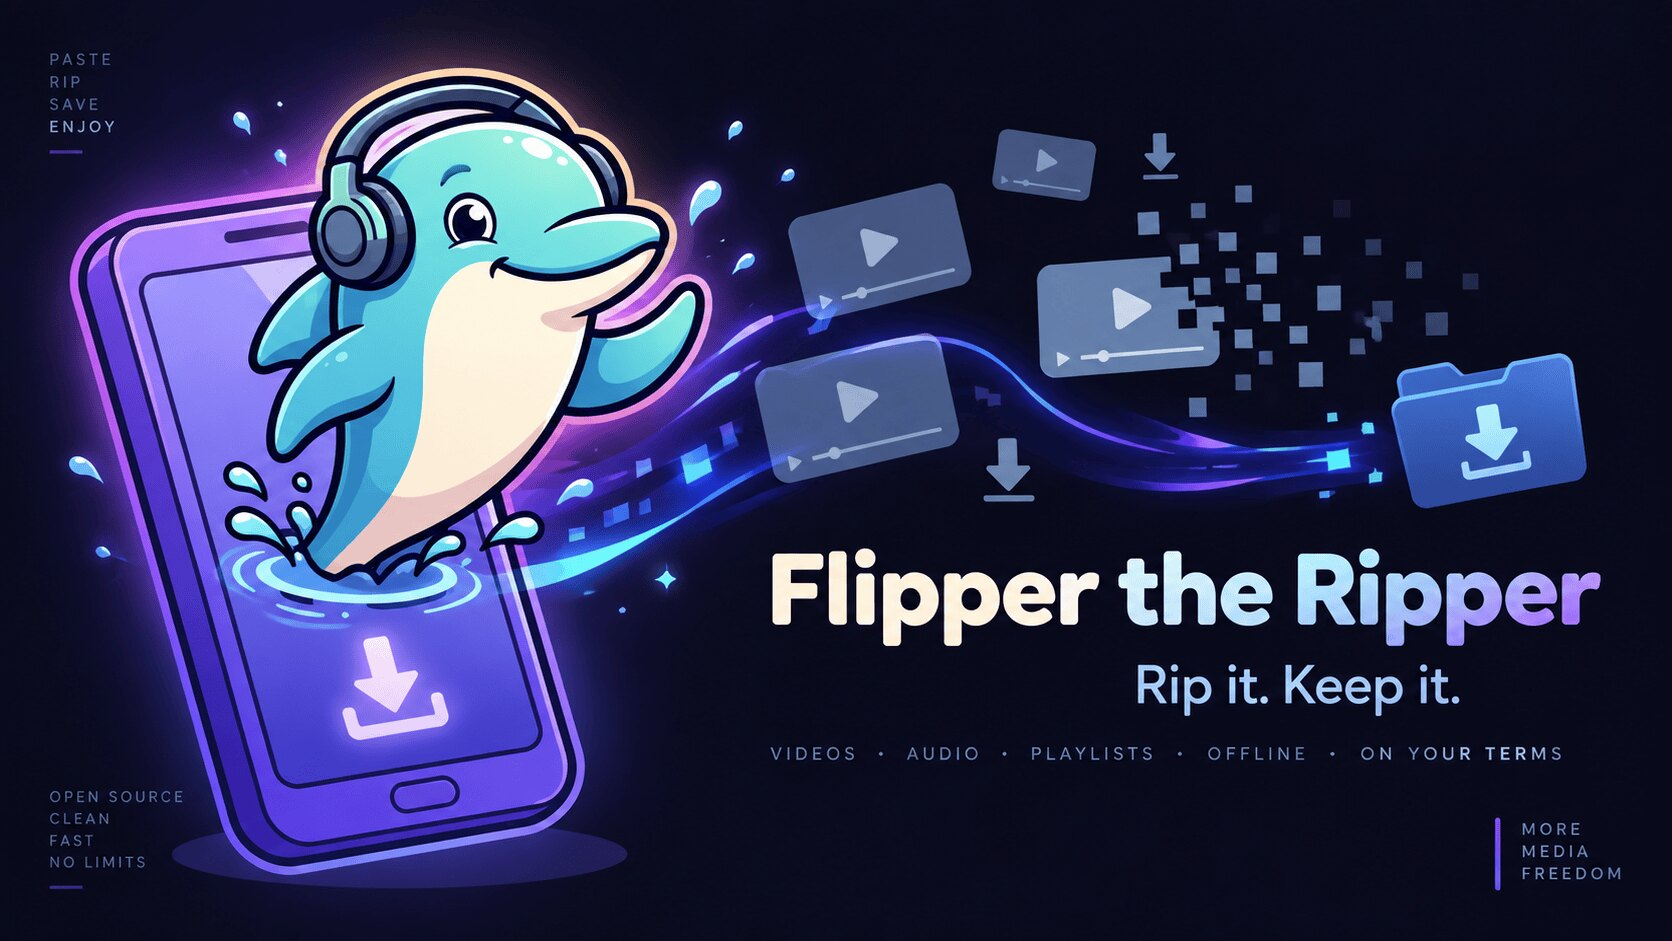
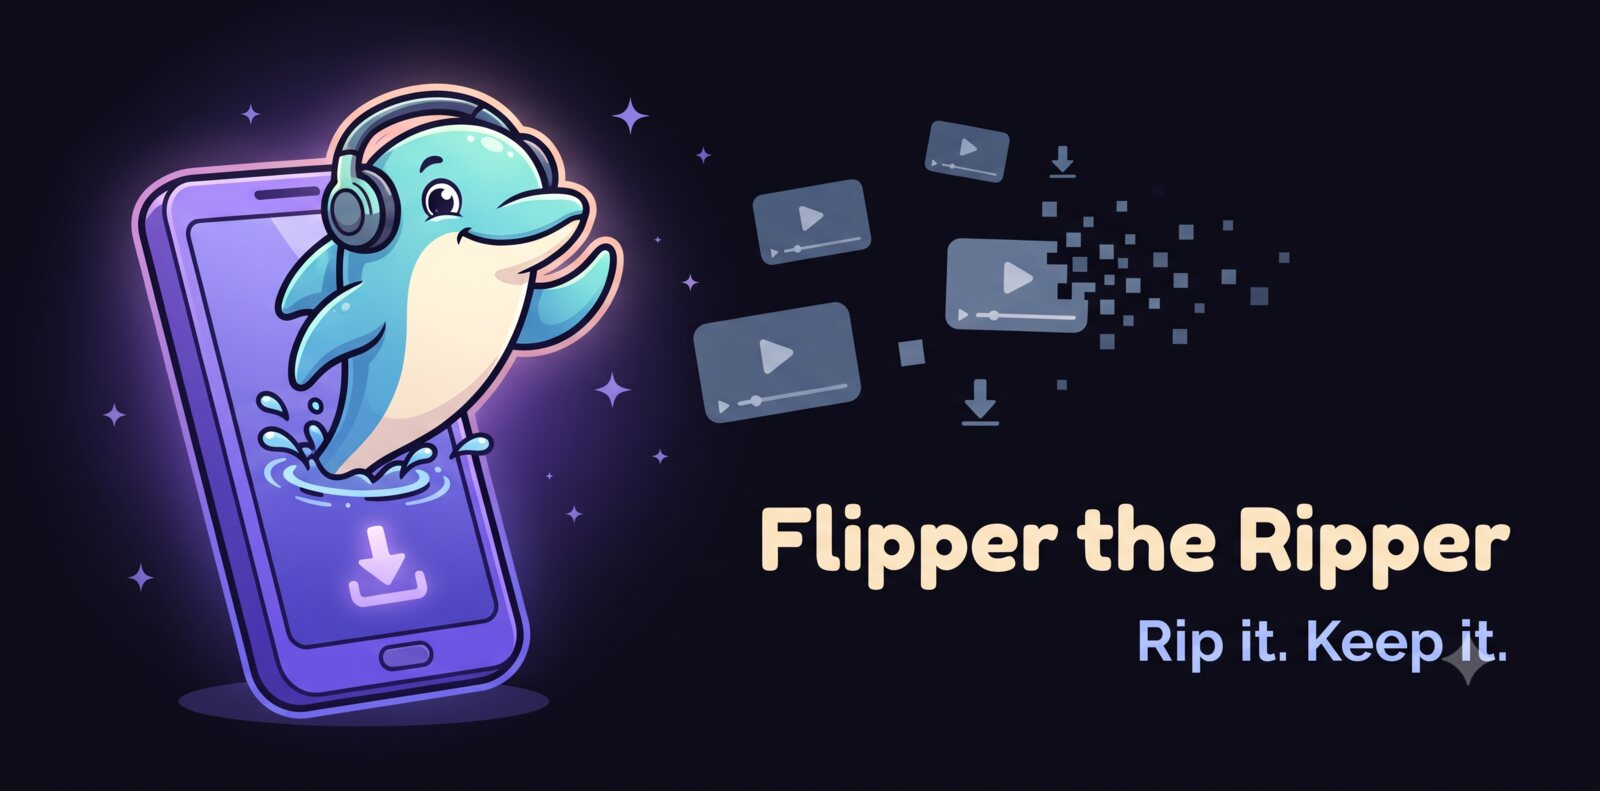
feat(website): new hero art as background, English meta tags, agent-friendly
- Hero: the high-resolution banner (2912 px, served as 1400/2400 px WebP)
  behind the text again, headline starting near the top.
- Meta: concise title and description, robots, Open Graph with locale
  alternates and image alt, Twitter card, JSON-LD MobileApplication with a
  feature list plus a HowTo for installing.
- Agents: the download button points at /download in the HTML itself (works
  without JavaScript, always the newest APK); /llms.txt summarises the app,
  its links, install and verification; <link rel="alternate"> announces
  llms.txt and latest.json. nginx serves text with charset=utf-8.

Claude-Session: https://claude.ai/code/session_01UcobzkTqVgULEXse87NsMY

diff --git a/website/index.html b/website/index.html
@@ -3,44 +3,151 @@
 <head>
   <meta charset="utf-8">
   <meta name="viewport" content="width=device-width, initial-scale=1, viewport-fit=cover">
-  <title>Flipper the Ripper — Android video downloader</title>
-  <meta name="description" content="Open-source Android app to save public videos from YouTube, Instagram, TikTok, Facebook, X and Dailymotion. Share a link, get the file. Free, no account, no tracking.">
+  <title>Flipper the Ripper — Free Android Video Downloader</title>
+  <meta name="description" content="Save public videos from YouTube, Instagram, TikTok, Facebook, X and Dailymotion to your Android gallery. Share a link, get the file. Free and open source.">
+  <meta name="robots" content="index, follow, max-image-preview:large, max-snippet:-1">
+  <meta name="author" content="Martin Pfeffer">
+  <meta name="application-name" content="Flipper the Ripper">
+  <meta name="apple-mobile-web-app-title" content="Flipper the Ripper">
   <meta name="theme-color" content="#141218">
   <meta name="color-scheme" content="dark">
+  <meta name="format-detection" content="telephone=no">
   <link rel="canonical" href="https://flipper-the-ripper.celox.io/">
-  <link rel="icon" href="assets/mark.svg?v=10" type="image/svg+xml">
-  <link rel="apple-touch-icon" href="assets/apple-touch-icon.png?v=10">
-  <link rel="preload" as="image" href="assets/hero.webp?v=10" type="image/webp">
+  <link rel="icon" href="assets/mark.svg?v=12" type="image/svg+xml">
+  <link rel="apple-touch-icon" href="assets/apple-touch-icon.png?v=12">
+  <link rel="preload" as="image" type="image/webp" imagesrcset="assets/hero-1400.webp?v=12 1400w, assets/hero-2400.webp?v=12 2400w" imagesizes="100vw">
+  <!-- For agents and tools: machine-readable facts about the app and its newest release. -->
+  <link rel="alternate" type="text/markdown" href="/llms.txt" title="Flipper the Ripper for LLMs and agents">
+  <link rel="alternate" type="application/json" href="/latest.json" title="Newest release (version, APK URL, size, SHA-256)">
 
   <meta property="og:type" content="website">
+  <meta property="og:site_name" content="Flipper the Ripper">
   <meta property="og:url" content="https://flipper-the-ripper.celox.io/">
   <meta property="og:title" content="Flipper the Ripper — Rip it. Keep it.">
-  <meta property="og:description" content="Open-source Android app to save public videos from YouTube, Instagram, TikTok, Facebook, X and Dailymotion.">
-  <meta property="og:image" content="https://flipper-the-ripper.celox.io/assets/og.jpg">
+  <meta property="og:description" content="Free, open-source Android app that saves public videos from YouTube, Instagram, TikTok, Facebook, X and Dailymotion to your gallery. Share a link, get the file.">
+  <meta property="og:locale" content="en_US">
+  <meta property="og:locale:alternate" content="de_DE">
+  <meta property="og:locale:alternate" content="es_ES">
+  <meta property="og:locale:alternate" content="it_IT">
+  <meta property="og:locale:alternate" content="fr_FR">
+  <meta property="og:image" content="https://flipper-the-ripper.celox.io/assets/og.jpg?v=12">
+  <meta property="og:image:secure_url" content="https://flipper-the-ripper.celox.io/assets/og.jpg?v=12">
+  <meta property="og:image:type" content="image/jpeg">
   <meta property="og:image:width" content="1200">
   <meta property="og:image:height" content="630">
+  <meta property="og:image:alt" content="A cartoon dolphin with headphones leaping out of a phone, videos flying into a download arrow — Flipper the Ripper, Rip it. Keep it.">
   <meta name="twitter:card" content="summary_large_image">
+  <meta name="twitter:title" content="Flipper the Ripper — Rip it. Keep it.">
+  <meta name="twitter:description" content="Free, open-source Android video downloader for YouTube, Instagram, TikTok, Facebook, X and Dailymotion. No account, no ads, no tracking.">
+  <meta name="twitter:image" content="https://flipper-the-ripper.celox.io/assets/og.jpg?v=12">
+  <meta name="twitter:image:alt" content="Flipper the Ripper — a cartoon dolphin leaping out of a phone, videos flying into a download arrow.">
 
   <script type="application/ld+json">
-  {"@context":"https://schema.org","@type":"SoftwareApplication","name":"Flipper the Ripper",
-   "operatingSystem":"Android 7.0+","applicationCategory":"MultimediaApplication",
-   "offers":{"@type":"Offer","price":"0","priceCurrency":"EUR"},
-   "license":"https://opensource.org/licenses/MIT",
-   "downloadUrl":"https://flipper-the-ripper.celox.io/download",
-   "codeRepository":"https://github.com/pepperonas/flipper-the-ripper",
-   "author":{"@type":"Person","name":"Martin Pfeffer","url":"https://celox.io"}}
+[
+ {
+  "@context": "https://schema.org",
+  "@type": "MobileApplication",
+  "@id": "https://flipper-the-ripper.celox.io/#app",
+  "name": "Flipper the Ripper",
+  "alternateName": [
+   "FTR",
+   "Flipper"
+  ],
+  "description": "Free, open-source Android app that saves publicly accessible videos from YouTube, Instagram, TikTok, Facebook, X and Dailymotion to the phone's gallery. Share a link to the app and the download starts. No account, no ads, no tracking.",
+  "url": "https://flipper-the-ripper.celox.io/",
+  "image": "https://flipper-the-ripper.celox.io/assets/og.jpg?v=12",
+  "screenshot": "https://flipper-the-ripper.celox.io/assets/screens.jpg?v=12",
+  "operatingSystem": "Android 7.0 or later (64-bit ARM)",
+  "applicationCategory": "MultimediaApplication",
+  "applicationSubCategory": "Video downloader",
+  "downloadUrl": "https://flipper-the-ripper.celox.io/download",
+  "installUrl": "https://flipper-the-ripper.celox.io/download",
+  "releaseNotes": "https://github.com/pepperonas/flipper-the-ripper/releases/latest",
+  "softwareHelp": {
+   "@type": "CreativeWork",
+   "url": "https://flipper-the-ripper.celox.io/#install"
+  },
+  "inLanguage": [
+   "en",
+   "de",
+   "es",
+   "it",
+   "fr"
+  ],
+  "isAccessibleForFree": true,
+  "offers": {
+   "@type": "Offer",
+   "price": "0",
+   "priceCurrency": "EUR",
+   "availability": "https://schema.org/InStock"
+  },
+  "license": "https://opensource.org/licenses/MIT",
+  "sameAs": [
+   "https://github.com/pepperonas/flipper-the-ripper"
+  ],
+  "featureList": [
+   "Download from YouTube, Instagram, TikTok, Facebook, X and Dailymotion",
+   "Share a link to the app and the download starts automatically",
+   "Quality picker: Best, 1080p, 720p, 480p or audio only",
+   "Download queue: one at a time, pause and resume, reorder by dragging",
+   "Swipe finished downloads away, with undo",
+   "Background downloads with a single progress notification",
+   "Saves to the Movies folder, named after the video title",
+   "Self-updating yt-dlp extractor",
+   "Available in English, German, Spanish, Italian and French",
+   "No account, no ads, no tracking"
+  ],
+  "author": {
+   "@type": "Person",
+   "name": "Martin Pfeffer",
+   "url": "https://celox.io"
+  },
+  "publisher": {
+   "@type": "Organization",
+   "name": "celox.io",
+   "url": "https://celox.io"
+  }
+ },
+ {
+  "@context": "https://schema.org",
+  "@type": "HowTo",
+  "name": "How to install Flipper the Ripper on Android",
+  "totalTime": "PT2M",
+  "step": [
+   {
+    "@type": "HowToStep",
+    "position": 1,
+    "name": "Download the APK",
+    "text": "Open https://flipper-the-ripper.celox.io/download on the phone. It always serves the newest signed APK (one file for all 64-bit ARM phones).",
+    "url": "https://flipper-the-ripper.celox.io/download"
+   },
+   {
+    "@type": "HowToStep",
+    "position": 2,
+    "name": "Allow the install",
+    "text": "Open the downloaded file. Android asks once whether the browser may install apps; allow it."
+   },
+   {
+    "@type": "HowToStep",
+    "position": 3,
+    "name": "Share a link",
+    "text": "In YouTube, Instagram, TikTok, Facebook, X or Dailymotion tap Share and pick Flipper the Ripper. Updates install over the existing app."
+   }
+  ]
+ }
+]
   </script>
 
-  <link rel="stylesheet" href="styles.css?v=10">
-  <script src="i18n.js?v=10" defer></script>
-  <script src="app.js?v=10" defer></script>
+  <link rel="stylesheet" href="styles.css?v=12">
+  <script src="i18n.js?v=12" defer></script>
+  <script src="app.js?v=12" defer></script>
 </head>
 <body>
   <a class="skip" href="#main" data-i18n="skip">Skip to content</a>
 
   <header class="bar">
     <a class="brand" href="#top" aria-label="Flipper the Ripper">
-      <img src="assets/mark.svg?v=10" alt="" width="28" height="28">
+      <img src="assets/mark.svg?v=12" alt="" width="28" height="28">
       <span>Flipper the Ripper</span>
     </a>
     <nav class="bar-links" aria-label="Main">
@@ -71,9 +178,11 @@
   <main id="main">
     <section class="hero" id="top">
       <picture class="hero-bg" aria-hidden="true">
-        <source srcset="assets/hero.webp?v=10" type="image/webp">
-        <img src="assets/hero.jpg?v=10" alt="" width="1672" height="941" fetchpriority="high">
+        <source type="image/webp" sizes="100vw"
+                srcset="assets/hero-1400.webp?v=12 1400w, assets/hero-2400.webp?v=12 2400w">
+        <img src="assets/hero.jpg?v=12" alt="" width="2912" height="1440" fetchpriority="high">
       </picture>
+      <div class="hero-scrim" aria-hidden="true"></div>
 
       <div class="hero-content">
         <p class="kicker" data-i18n="hero.kicker">Android · Open source · Free</p>
@@ -81,13 +190,13 @@
         <p class="lead" data-i18n="hero.lead">Save public videos from six platforms straight into your gallery — tap <em>Share</em>, pick Flipper the Ripper, done. No account, no ads, no tracking.</p>
 
         <div class="cta">
-          <a class="btn primary" id="dl" href="https://github.com/pepperonas/flipper-the-ripper/releases/latest">
+          <a class="btn primary" id="dl" href="/download" type="application/vnd.android.package-archive" aria-describedby="dl-meta">
             <svg viewBox="18 18 72 72" aria-hidden="true"><use href="#glyph-dl"/></svg>
             <span data-i18n="hero.download">Download APK</span>
           </a>
           <a class="btn tonal" href="https://github.com/pepperonas/flipper-the-ripper" data-i18n="hero.source" target="_blank" rel="noopener noreferrer">Source code</a>
         </div>
-        <p class="meta" id="dl-meta"><span data-i18n="hero.meta">Latest release · Android 7.0+ · 64-bit ARM</span></p>
+        <p class="meta" id="dl-meta"><span data-i18n="hero.meta">Newest release · Android 7.0+ · 64-bit ARM · free, MIT licence</span></p>
       </div>
     </section>
 
@@ -136,8 +245,8 @@
     <section class="section shots" aria-labelledby="s-h">
       <h2 id="s-h" data-i18n="s.h">Material 3 Expressive, dark and light</h2>
       <picture>
-        <source srcset="assets/screens.webp?v=10" type="image/webp">
-        <img src="assets/screens.jpg?v=10" width="1600" height="894" loading="lazy" decoding="async"
+        <source srcset="assets/screens.webp?v=12" type="image/webp">
+        <img src="assets/screens.jpg?v=12" width="1600" height="894" loading="lazy" decoding="async"
              data-i18n-alt="s.alt" alt="Four screens: the quality sheet on Home, the download queue, the progress notification and the German settings">
       </picture>
     </section>

diff --git a/website/styles.css b/website/styles.css
@@ -130,56 +130,40 @@ code {
 }
 
 /* ---------- hero ---------- */
-/* The banner is shown whole and smaller than its 1672 px — scaled down it stays sharp, and its own
-   lettering (wordmark, tagline, corner words) is readable. Its edges melt into the page colour. */
 .hero {
   position: relative; isolation: isolate; overflow: hidden;
-  display: flex; flex-direction: column; align-items: center;
-  padding: calc(env(safe-area-inset-top) + 76px) var(--gutter) 64px;
+  min-height: min(100svh, 900px);
+  display: flex; align-items: center; justify-content: flex-end;
+  padding: calc(env(safe-area-inset-top) + 88px) var(--gutter) 72px;
 }
-.hero::before {
-  content: ""; position: absolute; z-index: -1; left: 50%; top: 8%;
-  width: min(1100px, 120vw); aspect-ratio: 2 / 1; transform: translateX(-50%);
-  background: radial-gradient(closest-side, color-mix(in srgb, var(--accent) 22%, transparent), transparent);
-  pointer-events: none;
+.hero-bg, .hero-bg img {
+  position: absolute; inset: 0; width: 100%; height: 100%; z-index: -2;
 }
-.hero-bg {
-  position: relative; display: block;
-  /* Leaves room for the headline and the buttons on a typical laptop screen. */
-  width: min(100%, 980px, calc((100svh - 420px) * 1.777));
-  min-width: min(100%, 560px);
-}
-/* A halo in the banner's own background colour, so its edges have nothing to stand out against. */
-.hero-bg::before {
-  content: ""; position: absolute; inset: -14% -10%; z-index: -1;
-  background: radial-gradient(closest-side, #0a0b1d 62%, transparent);
-  pointer-events: none;
+/* Desktop: the picture starts below the bar, so its corner lettering does not sit under the brand. */
+@media (min-width: 861px) {
+  .hero-bg, .hero-scrim { top: calc(env(safe-area-inset-top) + 64px); height: auto; bottom: 0; }
 }
 .hero-bg img {
-  width: 100%; height: auto; aspect-ratio: 1672 / 941;
-  -webkit-mask-image: linear-gradient(90deg, transparent, #000 5%, #000 95%, transparent),
-    linear-gradient(180deg, transparent, #000 5%, #000 88%, transparent);
-  -webkit-mask-composite: source-in;
-  mask-image: linear-gradient(90deg, transparent, #000 5%, #000 95%, transparent),
-    linear-gradient(180deg, transparent, #000 5%, #000 88%, transparent);
-  mask-composite: intersect;
+  object-fit: cover; object-position: 18% 50%;
   animation: hero-in 1.6s var(--ease-emph) both;
 }
-.hero-content {
-  width: min(100%, 940px); margin-top: clamp(8px, 2vw, 20px);
-  text-align: center;
+/* The banner carries its own wordmark on the right; the scrim sinks it into the page colour
+   so the headline reads on top of it, while the phone and the dolphin stay in full light. */
+.hero-scrim {
+  position: absolute; inset: 0; z-index: -1;
+  background:
+    linear-gradient(90deg, transparent 24%, color-mix(in srgb, var(--bg) 96%, transparent) 45%, var(--bg) 58%),
+    linear-gradient(180deg, color-mix(in srgb, var(--bg) 92%, transparent) 0, color-mix(in srgb, var(--bg) 40%, transparent) 12%, transparent 22%, transparent 72%, var(--bg) 100%);
 }
-.hero-content .cta { justify-content: center; }
-@media (min-width: 1000px) { .hero-content h1 br { display: none; } }
-.hero-content .lead { max-width: 640px; margin-left: auto; margin-right: auto; }
+.hero-content { width: min(100%, 520px); margin-right: max(0px, calc((100vw - var(--measure)) / 2 - var(--gutter))); }
 .kicker {
   display: inline-block; margin: 0 0 16px; padding: 6px 14px; border-radius: var(--r-full);
   background: color-mix(in srgb, var(--primary-container) 70%, transparent);
   color: var(--on-primary-container); font: 600 13px/1.2 var(--font); letter-spacing: .04em;
 }
 h1 {
-  margin: 0 0 16px;
-  font-size: clamp(2.3rem, 4.6vw, 3.6rem); line-height: 1.02; letter-spacing: -.035em; font-weight: 800;
+  margin: 0 0 18px;
+  font-size: clamp(2.4rem, 5.4vw, 4rem); line-height: 1.02; letter-spacing: -.035em; font-weight: 800;
   text-wrap: balance;
 }
 .lead { margin: 0 0 28px; font-size: clamp(1.02rem, 1.6vw, 1.15rem); color: var(--on-variant); text-wrap: pretty; }
@@ -199,7 +183,7 @@ h1 {
 .btn.tonal { background: var(--secondary-container); color: var(--on-secondary-container); }
 .btn.tonal:hover { background: color-mix(in srgb, var(--secondary-container) 80%, var(--on-bg)); }
 .btn:active { transform: scale(.96); border-radius: 18px; }
-.meta { margin: 14px 0 0; font-size: 14px; color: var(--on-variant); font-variant-numeric: tabular-nums; }
+.meta { margin: 14px 0 0 4px; font-size: 14px; color: var(--on-variant); font-variant-numeric: tabular-nums; }
 
 .hero-content > * { animation: rise .8s var(--ease-emph) both; }
 .hero-content > :nth-child(2) { animation-delay: .06s; }
@@ -207,12 +191,23 @@ h1 {
 .hero-content > :nth-child(4) { animation-delay: .18s; }
 .hero-content > :nth-child(5) { animation-delay: .24s; }
 
-@media (max-width: 640px) {
-  .hero { padding-top: calc(env(safe-area-inset-top) + 64px); padding-bottom: 48px; }
-  /* Edge to edge on a phone: every pixel of width makes the banner's own lettering bigger. */
-  .hero-bg { width: calc(100% + 2 * var(--gutter)); max-width: none; margin: 0 calc(-1 * var(--gutter)); }
-  .hero-content { text-align: left; }
-  .hero-content .cta { justify-content: flex-start; }
+@media (max-width: 860px) {
+  /* Narrow screens show the whole banner — cropping it cut its wordmark mid-word. */
+  .hero {
+    display: block; min-height: 0;
+    padding-top: calc(env(safe-area-inset-top) + 60px + 49.5vw + 8px);
+    padding-bottom: 56px;
+  }
+  .hero-bg, .hero-scrim {
+    top: calc(env(safe-area-inset-top) + 60px); height: 49.5vw; bottom: auto;
+  }
+  .hero-bg img { object-fit: cover; object-position: 50% 50%; }
+  .hero-scrim {
+    background:
+      linear-gradient(180deg, var(--bg) 0, transparent 14%, transparent 72%, var(--bg) 100%),
+      linear-gradient(90deg, var(--bg) 0, transparent 6%, transparent 94%, var(--bg) 100%);
+  }
+  .hero-content { width: 100%; margin: 0; }
 }
 @media (max-width: 480px) {
   .cta .btn { flex: 1 1 100%; }
